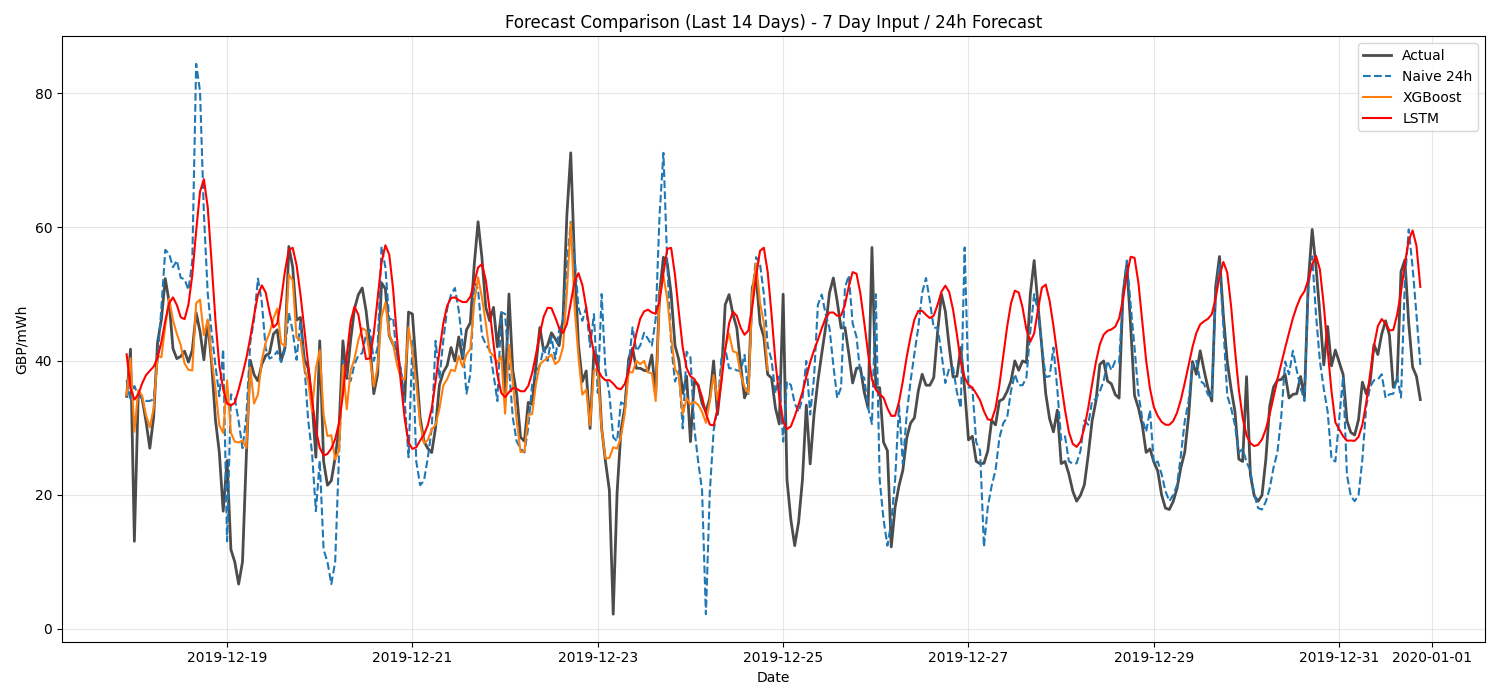
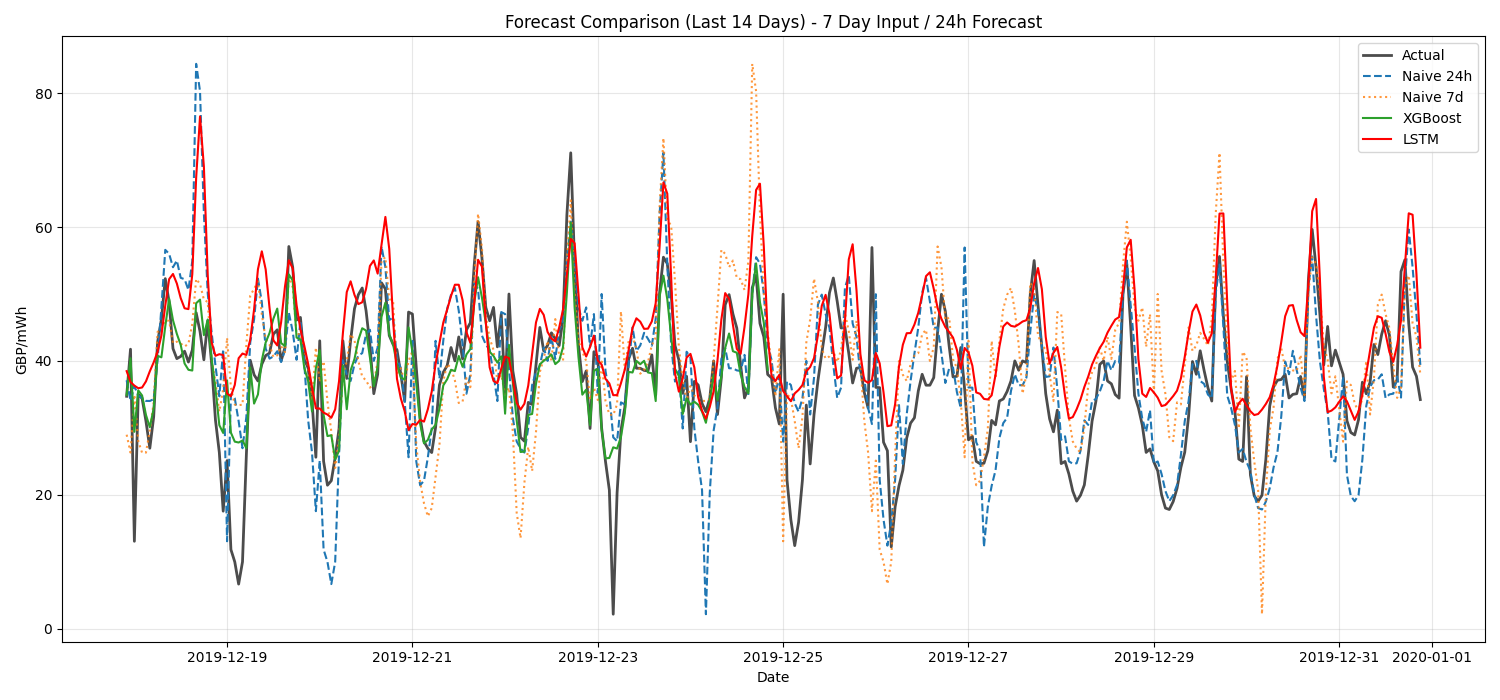
Enhance model comparison: Add Naive 7d, improve LSTM training, ensure reproducibility, and add docs

Changed region(s): [[0.0613, 0.18, 0.9507, 0.66], [0.92, 0.12, 0.9813, 0.21]]

diff --git a/ElectricityPricePrediction/Analysis/model_comparison.py b/ElectricityPricePrediction/Analysis/model_comparison.py
@@ -8,6 +8,12 @@ import argparse
 import subprocess
 import warnings
 import traceback
+import random
+
+# Set random seeds for reproducibility
+SEED = 42
+np.random.seed(SEED)
+random.seed(SEED)
 
 # Add project root to sys.path
 sys.path.append(os.path.dirname(os.path.dirname(os.path.abspath(__file__))))
@@ -25,6 +31,12 @@ try:
 except ImportError:
     tensorflow_available = False
     print("TensorFlow not available. LSTM model will be skipped.")
+
+if tensorflow_available:
+    try:
+        tf.random.set_seed(SEED)
+    except Exception as e:
+        print(f"Could not set TensorFlow seed: {e}")
 
 # Suppress warnings
 warnings.filterwarnings("ignore")
@@ -191,8 +203,8 @@ def main():
             lstm.preprocess()
             
             # Train
-            print("Training LSTM (epochs=5)...")
-            lstm.train(epochs=5, batch_size=32) 
+            print("Training LSTM (epochs=50)... This may take a while.")
+            lstm.train(epochs=50, batch_size=32) 
             
             # Predict
             window_size = lstm.window_size
@@ -272,6 +284,9 @@ def main():
     
     if 'Naive_24h' in subset.columns:
         plt.plot(subset.index, subset['Naive_24h'], label='Naive 24h', linestyle='--')
+
+    if 'Naive_7d' in subset.columns:
+        plt.plot(subset.index, subset['Naive_7d'], label='Naive 7d', linestyle=':', alpha=0.8)
     
     if 'XGBoost' in subset.columns:
         plt.plot(subset.index, subset['XGBoost'], label='XGBoost')
